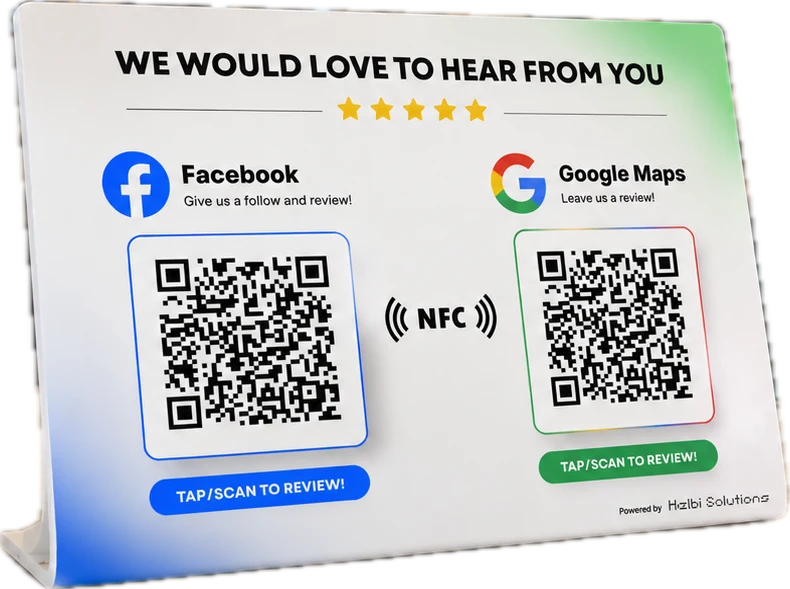
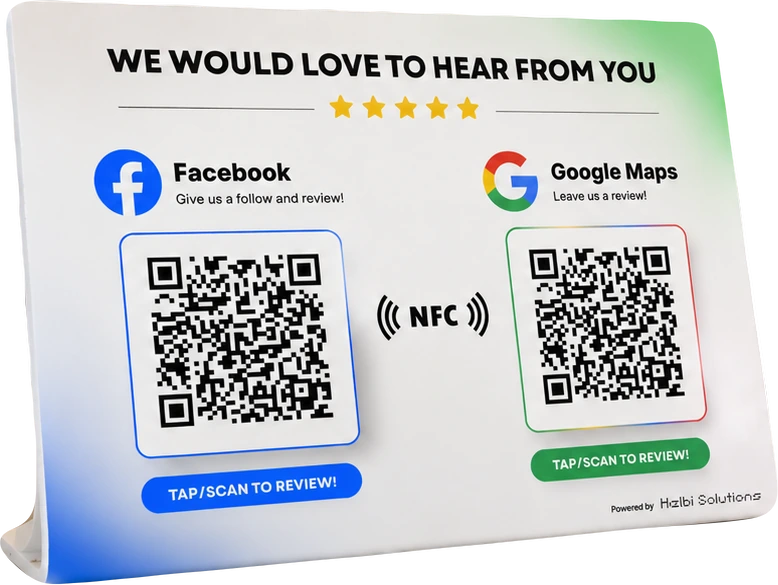
smooth the 2-in-1 cutout's edges
The first lift left a broken fringe along the top and left edges. It was
not the encoder -- WebP was carrying the alpha channel through byte for
byte -- but the mask itself: Vision traces this silhouette a pixel or two
wide, so a sliver of blurred café came with it and showed up wherever
that background was darker than the white panel. Each mask pixel is also
strictly in or out, which turns a near-horizontal edge into a staircase.

So the mask is now built on a 2x upscale and averaged back down through a
filtered downscale, which gives the edge real sub-pixel coverage instead
of a staircase; and it is blurred hard and re-thresholded before that,
which straightens the contour's wander while leaving the long edges and
the thin stand base intact. The threshold sits above half, so the
boundary lands just inside the product and the fringe has nothing to
stand on.

diff --git a/app/page.tsx b/app/page.tsx
@@ -280,8 +280,8 @@ export default async function Home() {
                   <Image
                     src="/images/duo-review-standee-cutout.webp"
                     alt="The 2-in-1 Goreview standee, with a Facebook QR code on the left and a Google Maps QR code on the right"
-                    width={790}
-                    height={589}
+                    width={778}
+                    height={585}
                     sizes="(max-width: 767px) 86vw, 420px"
                     className="h-auto w-full object-contain drop-shadow-[0_22px_34px_rgb(29_29_31/18%)]"
                   />

diff --git a/app/order/order-form.tsx b/app/order/order-form.tsx
@@ -36,8 +36,8 @@ const PRODUCTS = [
     note: "2-in-1 · NFC + two QR codes",
     price: DUO_STANDEE_PRICE,
     image: "/images/duo-review-standee-cutout.webp",
-    width: 790,
-    height: 589,
+    width: 778,
+    height: 585,
   },
   {
     key: "google",

diff --git a/components/product-rail.tsx b/components/product-rail.tsx
@@ -61,8 +61,8 @@ const PRODUCTS: Product[] = [
     href: "/order",
     linkLabel: "Order the 2-in-1",
     image: "/images/duo-review-standee-cutout.webp",
-    width: 790,
-    height: 589,
+    width: 778,
+    height: 585,
     isNew: true,
   },
   {
